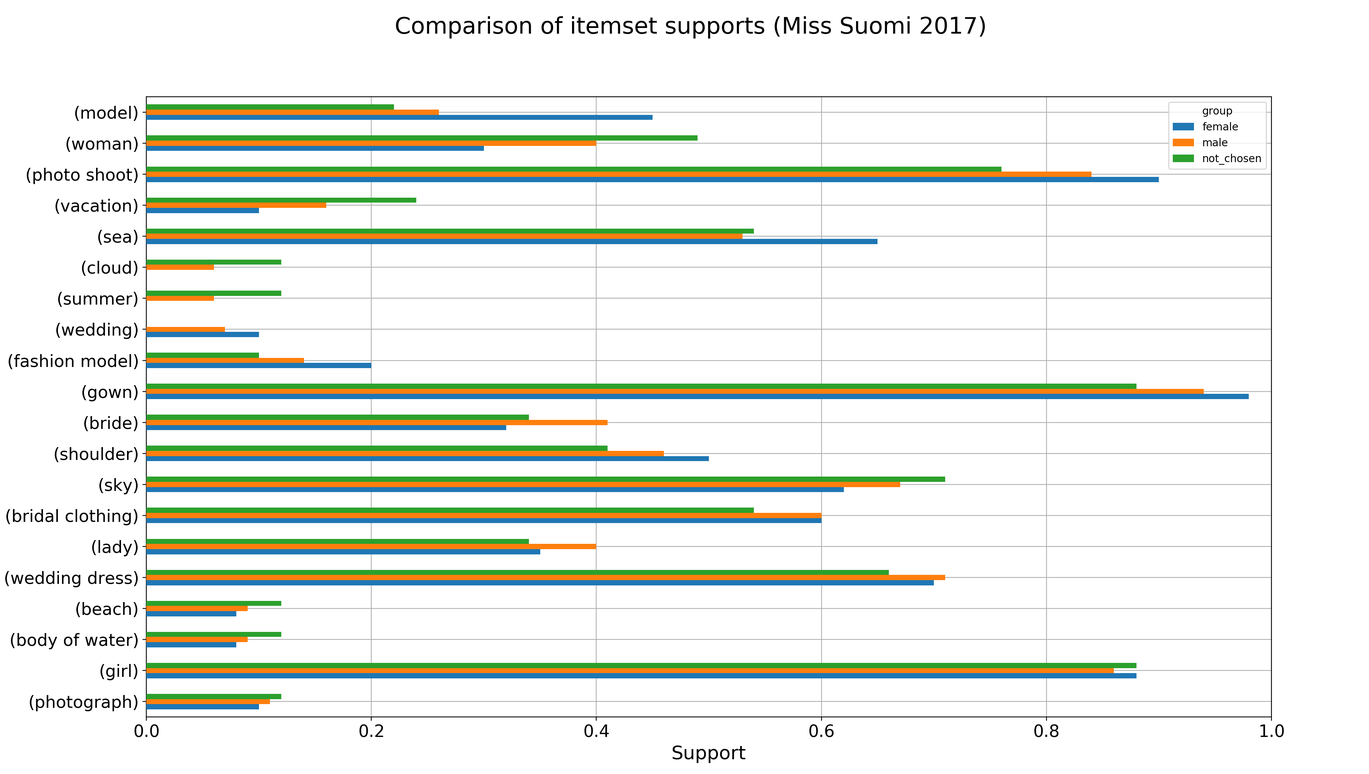
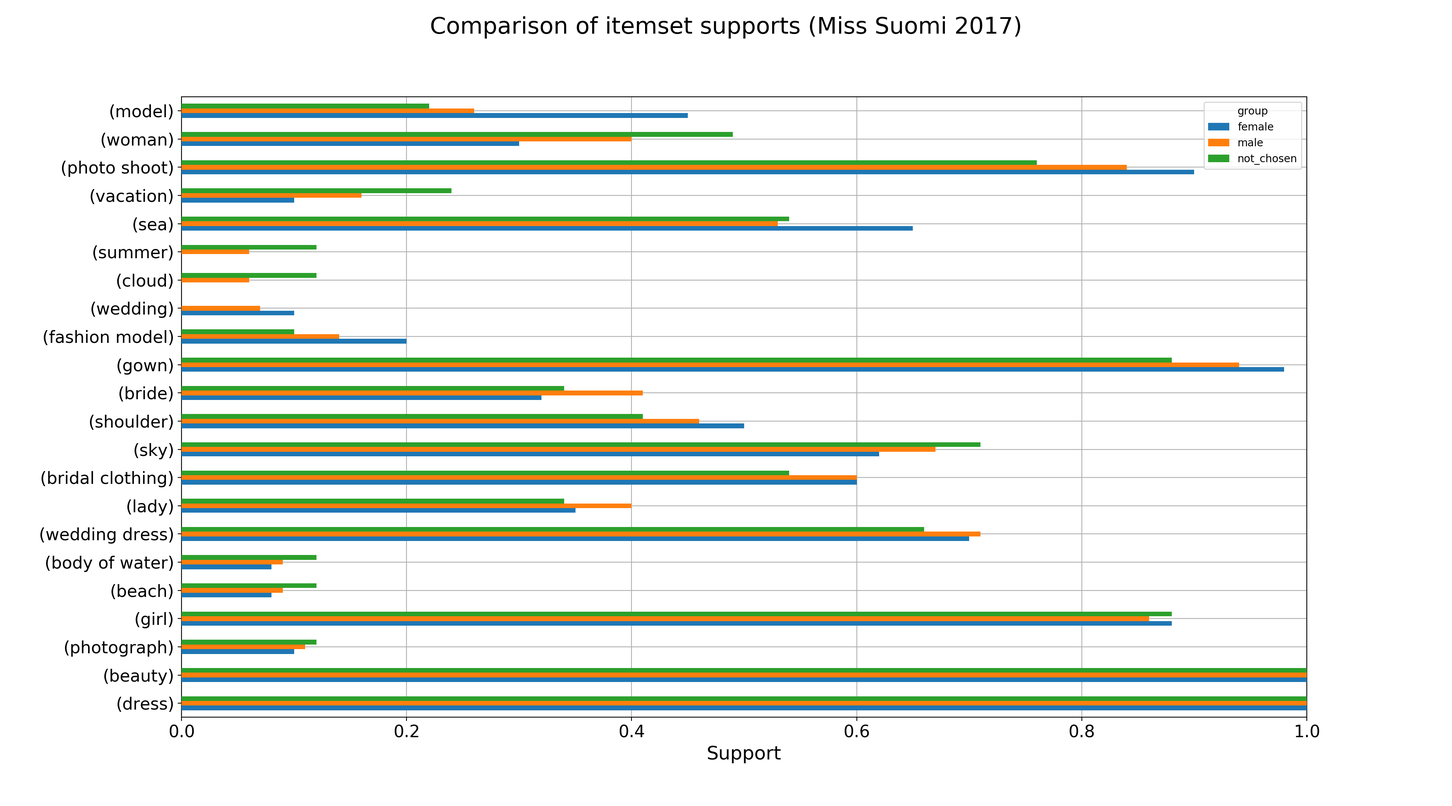
Added new content (lift) and updated figures

Changed region(s): [[0.0, 0.125, 0.9362, 1.0], [0.2809, 0.0, 0.7178, 0.0625], [0.0, 0.4375, 0.0312, 0.4688]]

diff --git a/Thesis/results.tex b/Thesis/results.tex
@@ -99,56 +99,63 @@ This chapter presents the results achieved by the chosen methods introduced in C
     \end{itemize}
 
 \subsection{Association Analysis}
-The results of the analysis are presented for the 1-itemsets and 2-itemsets in order to keep the findings easily understandable. The following figures display the results. The itemsets in the figure are ordered by the variance in the support values (however the variances are not displayed in the figures). This way the itemset with the highest variance is on the top, while the itemset with the smallest variance is on the bottom of the figure. All of figures in this chapter follow this convention of ordering. First the chosen Miss Suomi 2017 contest is analyzed, followed by the analysis on the system-level analysis.
+The results of the analysis are presented only for the 1-itemsets and 2-itemsets in order to keep the findings easily understandable. The following figures display the results. The itemsets in the figure are ordered by the variance in the support values (however the variances are not displayed in the figures). This way the itemset with the highest variance is on the top, while the itemset with the smallest variance is on the bottom of the figure. All of figures in this chapter follow this convention of ordering. First the chosen Miss Suomi 2017 contest is analyzed, followed by the analysis on the system-level analysis.
 
-Figure \ref{itemset_supports-gender-Miss_Helsinki-1_itemset} displays the results for the 1-itemset supports in case of genders. The first finding to note in this figure are the \emph{\{"beauty"\}} and \emph{\{"dress"\}} itemsets with support values 1.0 for all genders on the bottom of the figure. The reason behind this observation is that all of the participants' images had these labels. Therefore, inevitably all of the vote transactions picked up these itemsets and every vote in the contest has full support towards them. Such values do not show any significant meaning and therefore are excluded from the rest of the figures.
+Figure \ref{itemset_supports-gender-Miss_Helsinki-1_itemset} displays the 1-itemset supports and lifts for genders. The first finding to note in this figure are the \emph{\{"beauty"\}} and \emph{\{"dress"\}} itemsets with support and lift values 1.0 for all genders on the bottom of the figures. The reason behind this observation is that all of the participants' images had these labels. Therefore, inevitably all of the vote transactions picked up these itemsets and every vote in the contest has full support towards them. Such values do not show any significant meaning and therefore are excluded from the rest of the figures.
 
-\begin{figure}[h]
+\begin{figure}[]
     \begin{center}
         \includegraphics[width=1.0\textwidth]{Images/itemset_supports-gender-Miss_Helsinki-1_itemset.png}
-        \caption{The 1-itemset supports in the Miss Suomi 2016 contest by genders.}
+        \includegraphics[width=1.0\textwidth]{Images/itemset_lifts-gender-Miss_Suomi-1_itemsets.png}
+        \caption{The 1-itemset supports (top) and genders (bottom) in the Miss Suomi 2017 contest by genders (all itemsets are displayed ordered by the variance of the values).}
         \label{itemset_supports-gender-Miss_Helsinki-1_itemset}
     \end{center}
 \end{figure}
 
 It is interesting to investigate, why all of the images contained these two labels in general. As the participants' images were shot in a similar environment, with considerably similar content (e.g. the white dresses, the hair style, only one model in the image etc.), the Google Vision API assigned the same labels to the images. This gives a proof that computer vision in this case is more targeted towards getting an overall idea about the content of an image, rather than identifying its specific traits and attributes. It would be interesting to assign labels or tags manually on top of the computer's labels and compare results of a similar analysis.
 
+This visualization provides a good possibility also to compare gender differences. For instance, the support \emph{S(X=\{"model"\}|gender=female)=0.45} is considerably high than its male counterpart \emph{S(X=\{"model"\}|gender=male) = 0.26}. The lift values in this instance are \emph{L(X=\{"model"\}|gender=female) = 2.25} and \emph{L(X=\{"model"\}|gender=male) = 1.30}. Similar observation can be made for the \emph{\{"fashion model"\}} itemset, which suggests correlation between these two labels. This suggests two findings: the label "(fashion) model" appears to be more attractive to female voters compared to males and the presence of model in an image makes the participant more appealing. 
 
+Similarly, the \emph{\{"photo shoot\}, \{"sea"\}, \{"gown"\}, \{"fashion model"\}} and \emph{\{"wedding"\}} itemsets have higher support in case of female voters. This may suggest that females are more likely to vote on images, where the object (the model and the dress) is put more into focus. The lift values of these sets however reveal, that the interest for \{"sea"\} is interestingly high for all groups, which proposes the presence of sea in the background increases the number of votes. Another curious thing to note is the lift values of the \emph{\{"summer", "cloud", "beach"\}} itemsets, which are lower than 1.0 for both males and females. This observarion may suggest that having these in the background of the image is less attractive compared to the sea as background.
 
-This visualization provides a good possibility also to compare gender differences. For instance, the support $S(X=\{"model"\}|gender=female)=0.45$ is considerably high than its male counterpart (0.26). Similar observations can be made in case of the \emph{\{"photo\:shoot\}, \{"sea"\}, \{"gown"\}, \{"fashion model"\}} and \emph{\{"wedding"\}} itemsets. This may suggest that females are more likely to vote on images, where the object (the model and the dress) is put more into focus. Interestingly, the support for the \emph{\{"cloud"\}} and \emph{\{"summer"\}} itemsets are 0.0 for females and are higher for males. This means that no female users have voted on images with these labels (unless they belong to the \emph{not\_chosen} gender). This allows the conclusion that males might prefer images with more light and more colorful background in their votes. The support for \emph{\{"bride"\}} and \emph{\{"lady"\}} itemsets for males are also higher, which can mean that the impact of the model being a girl has more impact on their votes than her dress or the surroundings.
+Interestingly, the support and the lift for the \emph{\{"cloud"\}} and \emph{\{"summer"\}} itemsets are 0.0 for females, while the values of the male group are slightly higher. This means that no female users have voted on images with these labels (unless they belong to the \emph{not\_chosen} gender). This allows the conclusion that males might prefer images with more light and more colorful background in their votes. The lift and the support for \emph{\{"bride"\}} and \emph{\{"lady"\}} itemsets for males are also higher, which can mean that the impact of the model being a girl has more impact on their votes than her dress or the surroundings. However, as the lift value is not topping the charts for these itemsets, which suggests no major impact in users' behavior.
 
-Figure \ref{itemset_supports-age_group-Miss_Helsinki-1_itemset} shows the 1-itemset supports for age groups. It is interesting to notice that age groups 45-54 and 65+ have considerably higher values than the rest of the groups in case of the \emph{\{"bridal clothing"\}}, \emph{\{"gown"\}} and the \emph{\{"wedding dress"\}} itemsets. In other words it appears, that the clothing displayed on the pictures is more engaging for these groups. This may indicate that that dresses that appear on the images become influential in favoring a model in this kind of a contest. 
+Figure \ref{itemset_supports-age_group-Miss_Helsinki-1_itemset} shows the 1-itemset supports and lifts for age groups. It is interesting to notice that age groups 45-54 and 65+ have considerably higher support than the rest of the groups in case of the \emph{\{"bridal clothing"\}}, \emph{\{"shoulder"\}} and the \emph{\{"wedding dress"\}} itemsets. The higher lift values for these itemsets also confirm this observation. It seems, that the open-sholder clothing displayed on the pictures is more engaging for these groups. This may indicate also that dresses become influential in favoring a model in this kind of a contest for these groups. In other words, dress may be a more important aspect than the model herself.
 
-\begin{figure}[h] 
+\begin{figure}[] 
     \begin{center}
         \includegraphics[width=1.0\textwidth]{Images/itemset_supports-age_group-Miss_Helsinki-1_itemset.png}
-        \caption{The 1-itemset supports in the Miss Suomi 2016 contest by age groups (first 15 only).}
+        \includegraphics[width=1.0\textwidth]{Images/itemset_lifts-age_group-Miss_Suomi-1_itemsets.png}
+        \caption{The 1-itemset supports (top) and lifts (bottom) in the Miss Suomi 2017 contest by age groups (only the first 15 itemsets are displayed ordered by the variance of the values).}
         \label{itemset_supports-age_group-Miss_Helsinki-1_itemset}
     \end{center}
 \end{figure}
 
-Another interesting observation is that the support for some itemsets, such as \emph{\{"body\:of\:water"\}, \{"beach"\}, \{"cloud"\}, \{"vacation"\}, \{"beach"\}} show 0.0 support for the groups above age of 45. At the same time, these itemsets show somewhat higher support by the age groups on the lower end. This finding may indicate that activities such as having vacation on a beach in a warm country is more in the interest of young people, which can be valuable information for travel agencies or marketing specialists. With such valuable information at hand, tourism offices could provide more customized advisory service for customers with different background. 
+Another interesting observation is that the values for some itemsets, such as \emph{\{"body of water"\}, \{"beach"\}, \{"cloud"\}, \{"vacation"\}, \{"beach"\}} show 0.0 support and lift for the groups above age of 45. At the same time, these itemsets show somewhat higher support and lift by the rest of the age groups (0-17, 18-24, 25-34, 35-44)). This finding may indicate that activities such as having vacation on a beach in a warm country is more in the interest of young people, which can be valuable information for travel agencies or marketing specialists. With such valuable information at hand, tourism offices could provide more customized advisory service for customers with different background. 
 
-Finally, the 1-itemsets supports in the contest are analyzed by the location (country) of the users (Figure \ref{itemset_supports-country-Miss_Helsinki-1_itemset}). The first interesting observation is, that the support of the USA group is $1.0$ on some itemsets, while 0.0 on the others and there are no values in between.
+Finally, the 1-itemsets supports in the contest are analyzed by the location (country) of the users (Figure \ref{itemset_supports-country-Miss_Helsinki-1_itemset}). The first interesting observation is, that the support and lift of the USA group are 1.0 on some itemsets, while 0.0 on the others and there are no values in between. 
 
-\begin{figure}[h] 
+\begin{figure}[] 
     \begin{center}
         \includegraphics[width=1.0\textwidth]{Images/itemset_supports-country-Miss_Helsinki-1_itemset.png}
-        \caption{The 1-itemset supports in the Miss Suomi 2016 contest by countries.}
+        \includegraphics[width=1.0\textwidth]{Images/itemset_lifts-country-Miss_Suomi-1_itemsets.png}
+        \caption{The 1-itemset supports (top) and lifts (bottom) in the Miss Suomi 2017 contest by countries.}
         \label{itemset_supports-country-Miss_Helsinki-1_itemset}
     \end{center}
 \end{figure}
 
-By looking at the data the reason becomes obvious: the amount of transactions, where the users' country information is set as USA, Ukraine and Hungary are considerably low (below 5). This may not be a big surprise knowing that this contest was mainly advertised in Finland and not in other countries. As a matter of fact, there were $62$ Finnish voters and $21$ voters from the Philippines, which are still considerably low compared to the total number of voters. This finding suggests that many of the voters in this contest did not indicate their country information and hence do not display on Figure \ref{itemset_supports-country-Miss_Helsinki-1_itemset}. In other words, the amount of users, whose location information is filled is low and hence the results can get biased. 
+By looking at the data the reason becomes obvious: the amount of transactions, where the users' country information is set as USA, Ukraine and Hungary are considerably low (below 5). When looking at the lift values this bias comes even more appealing for users in USA and Ukraine. This may not be a big surprise knowing that this contest was mainly advertised in Finland and not in other countries. As a matter of fact, there were 62 Finnish voters and 21 voters from the Philippines, which are still considerably low compared to the total number of voters. 
 
-The data shows, that many voters in this contest did not give their location information, which limits the analysis. Encouraging the users in the future to provide more information would allow to derive valid results. At the present time, no strong conclusions can be drawn from the location data of the voters in the Miss Suomi 2017 contest. 
+This finding suggests that many of the voters in this contest did not indicate their country information and hence do not display on Figure \ref{itemset_supports-country-Miss_Helsinki-1_itemset}. In other words, the amount of users, whose location information is filled is low and hence the results can get biased. It can be also said that this particular contest has failed to engaged users across borders on a broad scale and therefore is not a good case for this analysis.
 
-Figure \ref{itemset_supports-gender-Miss_Helsinki-2_itemset} displays the support values for the 2-itemsets. To enhance the readability of the figure, only the first 15 values are shown. It can be seen from the figure that some itemsets have small, while some others have high support values. It can be seen that the itemsets with higher values, such as \emph{\{"girl, "wedding\:dress"\}, \{"girl", "dress"\}, \{"girl", "beauty"\}, \{"sky", "gown"\}} tend to also tell something more about the object of the image over the background. These itemsets also might stand out, because they appear often on the images. However, the data reveals that the abstract concepts (such as vacation or wedding) appear with less support. 
+The data shows however, that many voters in this contest did not give their location information, which limits the analysis. Also the extreme values shown on Figure \ref{itemset_supports-country-Miss_Helsinki-1_itemset} demonstrate this bias. Encouraging the users in the future to provide more information would allow to derive valid results. At the present time, no strong conclusions can be drawn from the location data of the voters in the Miss Suomi 2017 contest. To ensure the relevance of the support and lift calculations, it would be hence a good move to put a lower limit (e.g. 100 observations) on the number of voters, similarly as it was done in the EDA phase for number of unique voters in contests.
+
+Figure \ref{itemset_supports-gender-Miss_Helsinki-2_itemset} displays the support values for the 2-itemsets. To enhance the readability of the figure, only the first 15 values are shown. It can be seen from the figure that some itemsets have small, while some others have high support values. It can be seen that the itemsets with higher values, such as \emph{\{"girl, "wedding dress"\}, \{"girl", "dress"\}, \{"girl", "beauty"\}, \{"sky", "gown"\}} tend to also tell something more about the object of the image over the background. These itemsets also might stand out, because they appear often on the images. However, the data reveals that the abstract concepts (such as vacation or wedding) appear with less support. 
 
 \begin{figure}[h] 
     \begin{center}
         \includegraphics[width=1.0\textwidth]{Images/itemset_supports-gender-Miss_Helsinki-2_itemset.png}
-        \caption{The 2-itemset supports in the Miss Suomi 2016 contest by genders (only the first 15 itemsets are displayed ordered by variance).}
+        \caption{The 2-itemset supports in the Miss Suomi 2017 contest by genders (only the first 15 itemsets are displayed ordered by variance).}
         \label{itemset_supports-gender-Miss_Helsinki-2_itemset}
     \end{center}
 \end{figure}

diff --git a/Thesis/data-mining-at-choicely.tex b/Thesis/data-mining-at-choicely.tex
@@ -11,20 +11,22 @@ In this research, there are no distinctions made between the different vote type
 
 Each user profile contains the features listed in Table \ref{user_profile_fields}. For the purposes of this research, the fields written with blue text are considered interesting part of user profiles. The three highlighted attributes are all categorical variables, that contain demographic information about users. By filtering the data using these demographic attributes, one can obtain data generated by targeted segments of users and compare those datasets. This way the behavior of the demographic groups can be studied, which provides answer to RQ3. To keep the scope of this research compact, only the country information of the users is utilized in this study.
 
-\begin{table}[]
+\begin{table}[H]
     \centering
-    \begin{tabular}{l|l}
-        \textbf{Field}              & \textbf{Type} \\
-        \hline
-        Full name                   & Free text \\
-        Profile picture             & Image \\ 
-        Cover image                 & Image \\
-        \textcolor{blue}{Gender}    & Male/Female/Other/Not chosen \\
-        \textcolor{blue}{Location}  & Country, state and city \\
-        Birthday                    & Datetime \\ 
-        \textcolor{blue}{Age group} & 0-17/18-24/25-34/35-44/45-54/55-64/65+/Unknown \\
-        Introduction/Bio            & Free text
-    \end{tabular}
+    \begin{adjustbox}{width=0.8\textwidth}
+        \begin{tabular}{l|l}
+            \textbf{Field}              & \textbf{Type} \\
+            \hline
+            Full name                   & Free text \\
+            Profile picture             & Image \\ 
+            Cover image                 & Image \\
+            \textcolor{blue}{Gender}    & Male/Female/Other/Not chosen \\
+            \textcolor{blue}{Location}  & Country, state and city \\
+            Birthday                    & Datetime \\ 
+            \textcolor{blue}{Age group} & 0-17/18-24/25-34/35-44/45-54/55-64/65+/Unknown \\
+            Introduction/Bio            & Free text
+        \end{tabular}
+    \end{adjustbox}
     \caption{The list of fields and their types for each user profile.}
     \label{user_profile_fields}
 \end{table}  
@@ -109,11 +111,11 @@ In sum, the user data in Choicely is two-folded: the user profiles contain demog
 
     To answer RQ3, Association Analysis using the Apriori algorithm is performed. In order to be able to execute the analysis, some preprocessing has to be done. The list of labels extracted from the participants in the contest are listed for each transaction alongside with the voters' demographic data. In other words, the data has to be transformed such that the input contains rows of the voters' demographic attributes and the computer-vision identified labels from the participants' images. In order to achieve this, the User, Contest, ImageLabel and Vote tables are joined together. The retrieved data is combined as shown in Table \ref{association_analyisis_data}. This data structure is adequate to perform the analysis on.
 
-    \begin{table}[]
+    \begin{table}[H]
         \centering
-        \begin{adjustbox}{width=1\textwidth}
+        \begin{adjustbox}{width=0.8\textwidth}
             \begin{tabular}{l|l|l|l}
-                gender & age group & country & labels \\
+                \textbf{Gender} & \textbf{Age group} & \textbf{Country} & \textbf{Labels} \\
                 \hline
                 female & 25-34 & fin & ['fashion model', 'hair', 'model', 'beauty', '...] \\
                 male & 18-24 & fin & ['dark hair', 'hair', 'model', 'smile', '...] \\
@@ -146,7 +148,7 @@ In sum, the user data in Choicely is two-folded: the user profiles contain demog
     % TODO consider if the next paragraph is needed at all
     % Note that despite the values in the rows are probabilities, their values do not have to sum up to $1.0$. This is because each value in the table tells the probability, that a randomly selected transaction will contain the itemset (row), given that the vote was casted by a person who belongs to the target group (column). In other words, the probabilities of the itemsets for the demographic groups are independent from eachother.
 
-    \begin{table}[]
+    \begin{table}[H]
         \centering
         \begin{adjustbox}{width=1\textwidth}
             \begin{tabular}{l|c|c|c|c}
@@ -163,11 +165,32 @@ In sum, the user data in Choicely is two-folded: the user profiles contain demog
         \label{itemset_supports_format}
     \end{table}
 
-    On top of the support values, lift is calculated and studied for the extracted itemsets. The reason behind doing this is to identify how attractive itemsets tend to be. Despite the fact that lift is based on the support values, it helps studying not only the frequent itemsets, but also the improvement gained by the associations. For example, the lift value \emph{L(\{"cat"\}|gender=male) = 2.0} suggests, that the support for "cat" in case of male voters is two times as probable than "cat" appearing on a randomly chosen contestant's image from the studied dataset. If the lift value is 1.0, then the probabilty of finding the itemset in the targeted group's vote transactions is the same as on the images in the contest. In other words this means, that the group shows no more and no less attraction towards this content than what is already available in the data. This case may occur for instance, when the same label appears on every image in the contest (its support is 1.0 for all transactions). Hence, this case is not considered interesting. Finally, lift value less than 1.0 suggests less attraction for the itemset, which can also suggest interesting findings.
+    On top of the support values, lift is calculated and studied for the extracted itemsets. The reason behind doing this is to identify how attractive itemsets tend to be. Despite the fact that lift is based on the support values, it helps studying not only the frequent itemsets, but also the improvement gained by the associations. This helps to compare differences between demographic groups and to better understand the attractiveness of itemsets.
+
+    The lift values can be collected into a table displayed on Table \ref{itemset_lift_format}. Similarly as the itemset supports were gathered, this table shows the itemsets as rows and the targeted group of users as columns. The values in each columns correspond to the lift values of the itemsets for the given group of users in the set of transactions that was fed into the algorithm. 
+
+    \begin{table}[H]
+        \centering
+        \begin{adjustbox}{width=1\textwidth}
+            \begin{tabular}{l|c|c|c|c}
+                X & \emph{L(X|gender=male)} & \emph{L(X|gender=female)} & \emph{L(X|gender=other)} & \emph{L(X|gender=not\_specified)} \\
+                \hline
+                \emph{\{"beauty", "blonde"\}} & 2.0 & 2.5 & 0.25 & 0.33 \\
+                \emph{\{"cat", "fluffy", "cute" \}} & 1.25 & 0.05 & 1.0 & 0.0 \\
+                \emph{\{"sea", "photo shoot", "model"\}} & 0.0 & 3.0 & 1.0 & 2.0 \\
+                \emph{\{"building", "architecture"\}} & 4.0 & 0.0 & 1.0 & 0.0 \\
+                \emph{\{"building"\}} & 3.0 & 0.0 & 1.0 & 0.0
+            \end{tabular}
+        \end{adjustbox}
+        \caption{The output format of the Association Analysis comparing genders, where X is the itemset and L is the lift (the records dispalyed in the table are only examples).}
+        \label{itemset_lift_format}
+    \end{table}
+
+    In this imaginary example, the lift value \emph{L(\{"building"\}|gender=male) = 2.0} suggests, that the support for "building" among male voters is two times as probable than "building" appearing on a randomly chosen contestant's image from the studied dataset. If the lift value is 1.0, then the probabilty of finding the itemset in the targeted group's vote transactions is the same as on the images in the contest. In other words this means, that the group shows no more and no less attraction towards this content than what is already available in the data. This case may occur for instance, when the same label appears on every image in the contest (its support is 1.0 for all transactions). Hence, this case is not considered interesting. Finally, lift value less than 1.0 suggests less attraction for the itemset, which can also suggest interesting findings.
 
     In order to better understand the results of the Association Analysis, first a single contest (Miss Suomi 2017\footnote{\url{https://choicely.com/contest/164f52c7-9df8-11e7-b3c9-d1a0f88250ad}}) is looked at more carefully. By looking at a single case study, the results can be analyzed and interpreted in a smaller scope and hence be understood easier. Secondly, the results of the analysis performed on the system-level are presented and interpreted. This approach is chosen to demonstrate the capabilities and the potential of the technique in both smaller and larger datasets.
 
-    The Miss Suomi 2017 contest has been hosted in the Choicely platform late September, 2017. Having engaged $26 200$ users, it is the third biggest contest in the platform at the time of performing the analysis. There are $10$ participants in the contest, who were photographed while dressed in white cocktail dresses on a shore of a lake or sea. Each photo has one and only one participant. Each participant has only one and only one photo in this contest. 
+    The Miss Suomi 2017 contest has been hosted in the Choicely platform late September, 2017. Having engaged 26200 users, it is the third biggest contest in the platform at the time of performing the analysis. There are $10$ participants in the contest, who were photographed while dressed in white cocktail dresses on a shore of a lake or sea. Each photo has one and only one participant. Each participant has only one and only one photo in this contest. 
     
     Depending on how many individual participants the chosen transactions target, the number of itemsets (hence the number of rows) grows rapidly. Also the number of demographic groups (hence the number of columns) may differ depending on which the property is used from the users' profile. Essentially, the number of categorical groups for genders can go up to 4, for age groups up to 7 (see Table \ref{user_profile_fields}), but many more for location-based groups. As a conclusion it can be said that despite the supports are obtained, most likely their number will be too overwhelming to look at and analyze. Furthermore, one might assume that there patterns and structural trends in the support values, for instance some itemsets may share similarities, while others may differ from eachother in terms of their support values.
 
@@ -176,7 +199,7 @@ In sum, the user data in Choicely is two-folded: the user profiles contain demog
     
     A simplified example output of the method is displayed in Table \ref{coclustering_output_format}. As shown, the support values in the cells with the same background color show similarities in their values. For instance, the support values in the green cluster are all 1.0, while the red cluster contains values that are also somewhat similar. This suggests that these itemsets and demographic groups are similar in nature. It can be seen, that this representation adds a layer on top of the output of the previous Association Analysis step (Table \ref{itemset_supports_format}) by reorganzing and clustering the rows and columns of the data matrix. By applying Co-Clustering, the closely-related itemsets and the groups are clustered together and grouped closeby, which facilitates the interpretation of the results. 
 
-    \begin{table}[]
+    \begin{table}[H]
         \centering
         \begin{adjustbox}{width=1\textwidth}
             \begin{tabular}{l|c|c|c|c}
